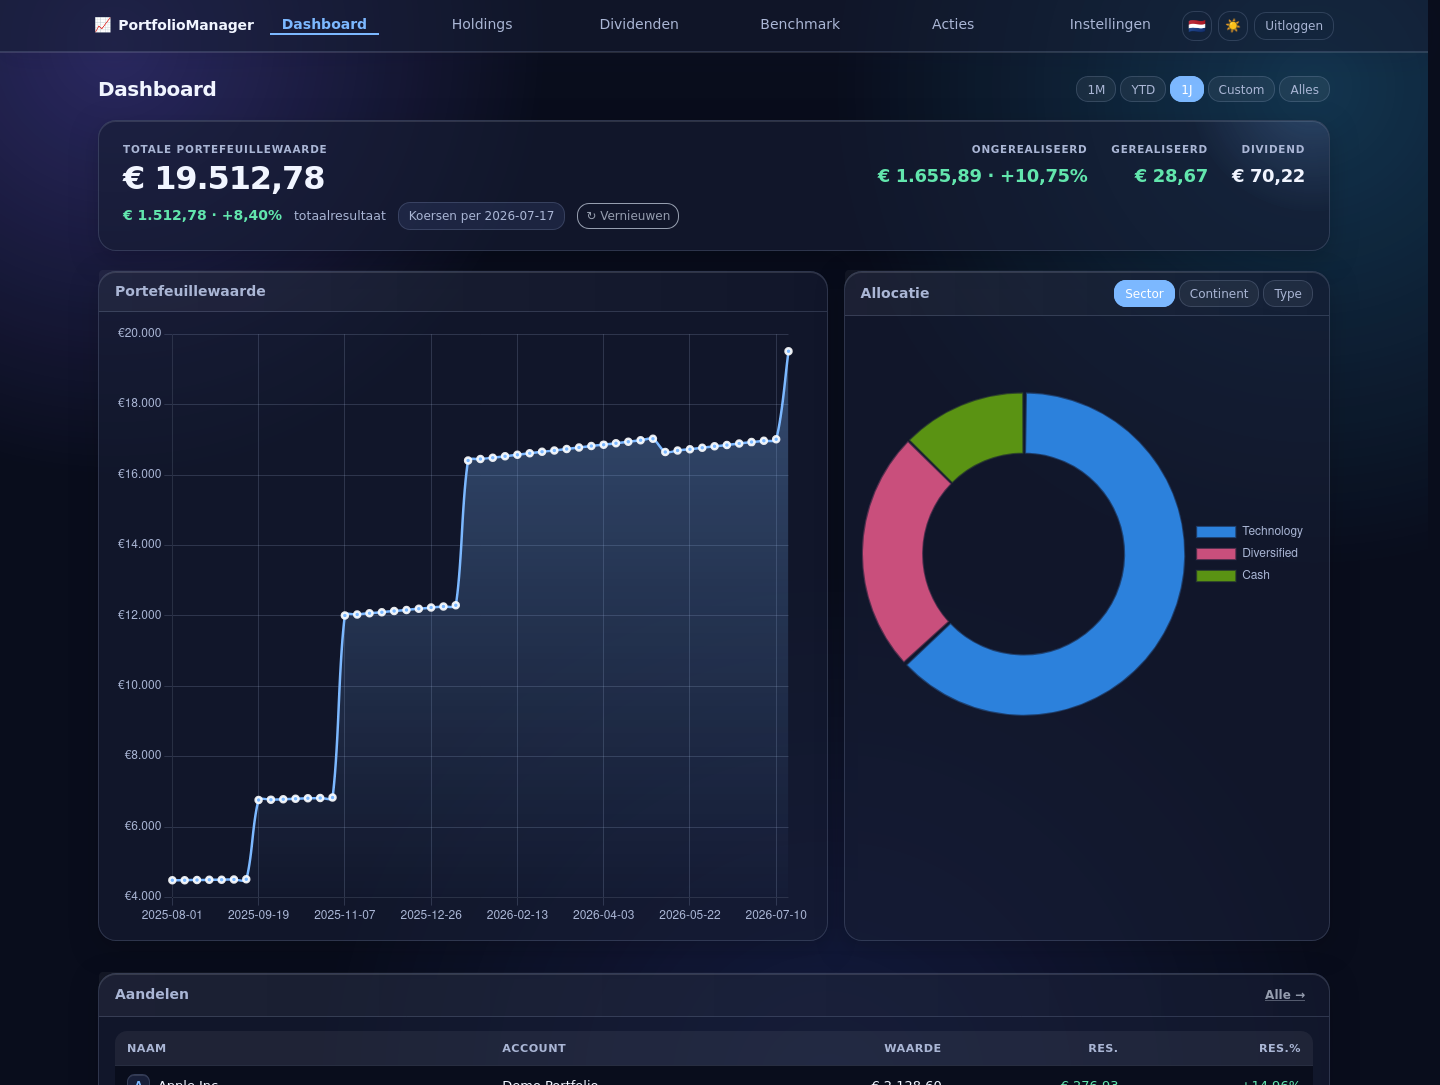
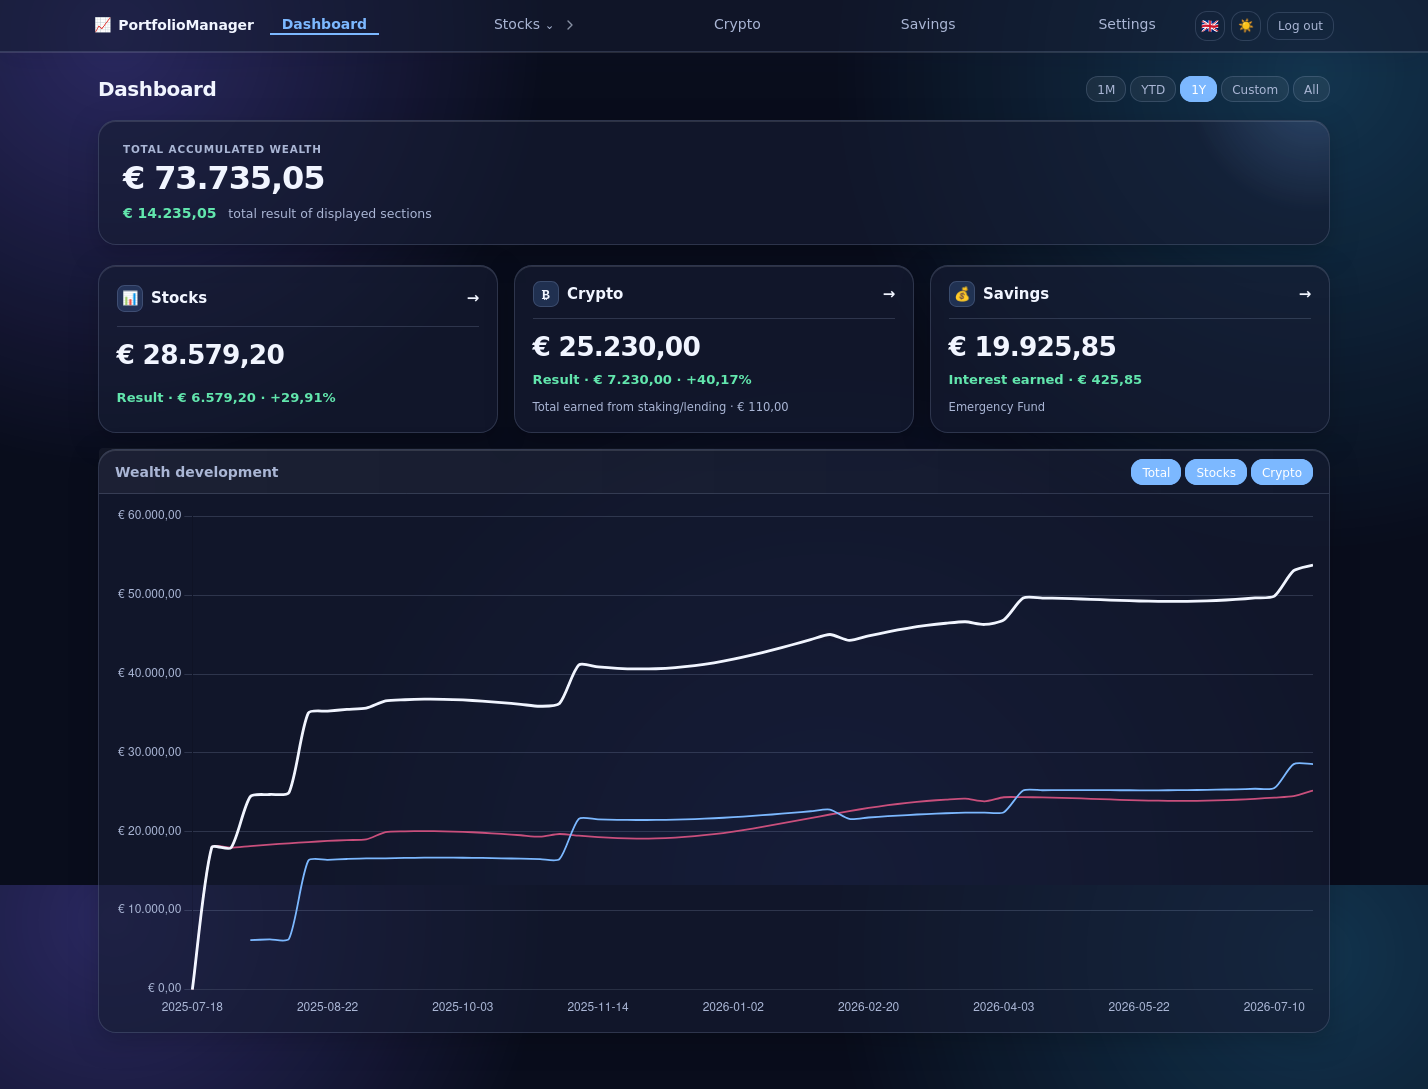
docs: update product documentation and screenshots

diff --git a/README.md b/README.md
@@ -1,6 +1,6 @@
 # PortfolioManager
 
-PortfolioManager is a private, self-hosted investment tracker. It imports DeGiro exports, tracks holdings and cash, fetches market prices, compares benchmarks, and supports WebAuthn/FIDO2 security keys.
+PortfolioManager is a private, self-hosted wealth tracker for stocks, ETFs, crypto and savings. It imports DeGiro account exports, synchronizes a read-only Bitvavo account, calculates savings interest and brings the enabled categories together on one dashboard. Access is protected with WebAuthn/FIDO2 security keys.
 
 It is designed for a small home server: one Python process, one SQLite database, no external database service, and no frontend build step.
 
@@ -17,17 +17,31 @@ It is designed for a small home server: one Python process, one SQLite database,
   </tr>
 </table>
 
+<table>
+  <tr>
+    <td align="center"><strong>Crypto overview</strong></td>
+    <td align="center"><strong>Savings overview</strong></td>
+  </tr>
+  <tr>
+    <td><img src="docs/screenshots/crypto-dark.png" alt="PortfolioManager crypto overview in dark theme" width="600"></td>
+    <td><img src="docs/screenshots/savings-light.png" alt="PortfolioManager savings overview in light theme" width="600"></td>
+  </tr>
+</table>
+
 The screenshots use an isolated demo portfolio with fictitious data.
 
 ## Features
 
-- DeGiro `Account.csv` imports with safe re-imports
-- Manual accounts and generic CSV imports
-- Portfolio dashboard, value history, realised/unrealised P&L, dividends and benchmark comparison
+- A configurable main dashboard with separate stock, crypto and savings cards
+- A combined stock-and-crypto history chart with 1M, YTD, 1Y, custom and all-time ranges
+- DeGiro `Account.csv` imports with drag and drop, a built-in export guide and safe overlapping re-imports
+- Manual broker, pension, savings and other accounts
+- Stock and ETF holdings, value history, realised/unrealised P&L, dividends, actions and benchmark comparison
 - Allocation by sector, continent and asset type, including manual ETF country weights
-- Read-only Bitvavo integration with crypto balances, fixed staking, EUR valuation, performance and account activity
+- Read-only Bitvavo integration with crypto balances, deposits, activity, historical EUR valuation and staking/lending income
+- Savings accounts with dated deposits and withdrawals, rate history, payout frequency, optional end dates, rate tiers and manual interest corrections
 - Configurable automatic stock and crypto refresh schedule (06:00 and 18:00 by default, using server time)
-- Company and ETF logos through an optional Logo.dev publishable key
+- Company, ETF and crypto logos through an optional Logo.dev publishable key
 - WebAuthn/FIDO2 authentication (YubiKey-compatible)
 - SQLite backup download from the settings page
 - Responsive liquid-glass interface for desktop and mobile
@@ -36,7 +50,7 @@ The screenshots use an isolated demo portfolio with fictitious data.
 
 - A modern browser
 - HTTPS and a stable hostname for WebAuthn in production
-- Outbound internet access if you want price updates or Logo.dev images
+- Outbound internet access for market prices, Bitvavo synchronization and optional Logo.dev images
 - One of the deployment options below
 
 The app stores all persistent state in `data/portfolio.db`. Do not commit or share this file: it contains portfolio data, the generated session secret, WebAuthn credentials, and encrypted external-service credentials. The generated encryption key is stored separately as `data/.credential_key`; keep it private as well.
@@ -65,8 +79,8 @@ For most home servers, use your existing Nginx Proxy Manager/nginx setup. A self
 ## Option 1: Docker Compose
 
 ```bash
-git clone https://github.com/YOUR-USER/portfoliomanager.git
-cd portfoliomanager
+git clone https://github.com/Sharpe-nl/PortfolioManager.git
+cd PortfolioManager
 docker compose up -d --build
 ```
 
@@ -91,8 +105,8 @@ docker run --rm -v portfoliomanager-data:/data -v "$PWD":/backup alpine \
 ## Option 2: Docker CLI
 
 ```bash
-git clone https://github.com/YOUR-USER/portfoliomanager.git
-cd portfoliomanager
+git clone https://github.com/Sharpe-nl/PortfolioManager.git
+cd PortfolioManager
 docker build -t portfoliomanager:latest .
 mkdir -p /srv/portfoliomanager/data
 docker run -d \
@@ -115,7 +129,7 @@ apt update
 apt install -y python3 python3-venv python3-dev git sqlite3
 
 useradd --system --create-home --shell /usr/sbin/nologin service_portfolio_manager
-git clone https://github.com/YOUR-USER/portfoliomanager.git /opt/portfoliomanager
+git clone https://github.com/Sharpe-nl/PortfolioManager.git /opt/portfoliomanager
 chown -R service_portfolio_manager:service_portfolio_manager /opt/portfoliomanager
 
 sudo -u service_portfolio_manager python3 -m venv /opt/portfoliomanager/.venv
@@ -179,11 +193,25 @@ Open `https://portfolio.home:8443`. Add a local DNS entry for that hostname if n
 
 ## First run and settings
 
-1. Open the site and register a FIDO2/WebAuthn authenticator.
-2. Create or import an account from the Import page.
-3. Add a Logo.dev **publishable** key in **Settings → Company logo API keys** if you want official logos. It is optional; the app falls back to initials.
-4. To connect Bitvavo, create an API key in Bitvavo with **View/read-only only**. Do not enable trading or withdrawals. Add both the API key and the one-time API secret in **Settings → Bitvavo API**.
-5. Download a backup from Settings after the first successful import or synchronization.
+1. Open the site and register a FIDO2/WebAuthn authenticator. Register a second key from Settings when possible, so you have a backup login method.
+2. For stocks and ETFs, create a broker account and import DeGiro's `Account.csv` from **Stocks → Actions → Import**. Overlapping exports are safe: previously imported rows are recognized automatically.
+3. For crypto, create a Bitvavo API key with **View/read-only permissions only**. Never enable trading or withdrawals. Enter the API key and its one-time secret under **Settings → Bitvavo API**, then start the first synchronization from the Crypto page.
+4. For savings, create an account with type **Savings**. Open its settings to add deposits or withdrawals and define the applicable interest rates, payout frequency and optional balance tiers.
+5. Use the **Show on dashboard** switch on the Stocks, Crypto and Savings pages to decide which category cards appear on the main dashboard. Savings is shown as a separate card; the combined history line contains stocks and crypto.
+6. Review the automatic refresh times in Settings. Stocks and crypto refresh at 06:00 and 18:00 by default, in the server's local time zone. The application must be running at those times.
+7. Optionally add a Logo.dev **publishable** key under **Settings → Company logo API keys**. Without one, the interface falls back to initials.
+8. Download a backup from Settings after the first successful import or synchronization.
+
+### What the results mean
+
+- **Stocks** are calculated only from broker-account transactions, cash events and market prices. Crypto and savings deposits do not affect stock performance.
+- **Crypto unrealised result** is the current Bitvavo account value minus net EUR deposits. Staking and lending rewards are reported separately using their historical EUR value when available.
+- **Savings growth** contains calculated and manually corrected interest. Deposits and withdrawals change the balance but are not treated as investment growth.
+- **Main dashboard total value** adds all enabled category values. Its result adds stock performance, crypto unrealised result and savings interest, while its chart deliberately combines only stock and crypto history.
+
+### Automatic refresh
+
+The built-in scheduler checks once per minute and runs each configured time slot only once. A stock-provider failure does not prevent Bitvavo from refreshing, and vice versa. Times use the operating system or container time zone; check the time displayed in Settings if the refresh occurs at an unexpected hour.
 
 ## Backups and updates
 
@@ -210,7 +238,7 @@ For Docker, rebuild and recreate the container with `docker compose up -d --buil
 
 ```bash
 python -m pytest
-python -m py_compile app/main.py app/routers/portfolio.py
+python -m py_compile app/main.py app/routers/portfolio.py app/routers/crypto.py app/routers/savings.py
 git diff --check
 ```
 
@@ -223,7 +251,7 @@ app/          FastAPI application, templates, static assets and services
 migrations/   Ordered SQLite migrations, applied automatically at startup
 tests/        Unit tests and CSV fixtures
 deploy/       systemd unit and detailed LXC deployment guide
-scripts/      Vendor download and maintenance utilities
+scripts/      Deployment and maintenance utilities
 data/         Local SQLite database (ignored by Git)
 ```
 

diff --git a/deploy/install.md b/deploy/install.md
@@ -3,7 +3,7 @@
 ## Requirements
 
 - Debian 12 LXC (1 vCPU, 1 GB RAM, 8 GB disk)
-- Outbound internet access for `pip install` and initial price fetches
+- Outbound internet access for `pip install`, market prices and optional Bitvavo/Logo.dev access
 - Python 3.11 (available via `apt`)
 
 ---
@@ -44,7 +44,7 @@ useradd --system --create-home --shell /bin/false service_portfolio_manager
 
 ```bash
 cd /opt
-git clone https://your-repo-url portfoliomanager
+git clone https://github.com/Sharpe-nl/PortfolioManager.git portfoliomanager
 chown -R service_portfolio_manager:service_portfolio_manager /opt/portfoliomanager
 ```
 
@@ -147,6 +147,26 @@ systemctl status portfoliomanager
 
 ---
 
+## Step 9 — Configure the data sources
+
+1. Create a broker account and import DeGiro's `Account.csv` under **Stocks → Actions → Import**. The same or overlapping file may safely be imported again.
+2. If you use Bitvavo, create an API key with **View/read-only permissions only**. Keep trading and withdrawals disabled. Add the key and its one-time secret under **Settings → Bitvavo API**, then synchronize from the Crypto page.
+3. Create accounts of type **Savings** for bank savings. Each savings account has its own settings page for dated deposits and withdrawals, rate periods, payout frequency, balance tiers and manual interest corrections.
+4. Use the **Show on dashboard** switch per category to control the main dashboard cards.
+5. Review the automatic stock and crypto refresh times in Settings. The defaults are 06:00 and 18:00 in the LXC's local time zone.
+
+The scheduler only runs while the service is active. To inspect or change the LXC time zone:
+
+```bash
+timedatectl status
+timedatectl set-timezone Europe/Amsterdam
+systemctl restart portfoliomanager
+```
+
+Logo.dev is optional. Add only a **publishable** Logo.dev key in Settings; never place private credentials in the repository.
+
+---
+
 ## Backup
 
 ### Manual backup
@@ -154,7 +174,11 @@ systemctl status portfoliomanager
 ```bash
 sqlite3 /opt/portfoliomanager/data/portfolio.db \
     ".backup /opt/portfoliomanager/data/portfolio-$(date +%Y%m%d).db"
+cp /opt/portfoliomanager/data/.credential_key \
+   /opt/portfoliomanager/data/credential-key-$(date +%Y%m%d)
 ```
+
+The database contains portfolio data, WebAuthn credentials, the session secret and encrypted external-service credentials. `data/.credential_key` is required to decrypt those external-service credentials after a restore. Protect both files like passwords and never commit them.
 
 ### Automated nightly backup (keep 30 days)
 
